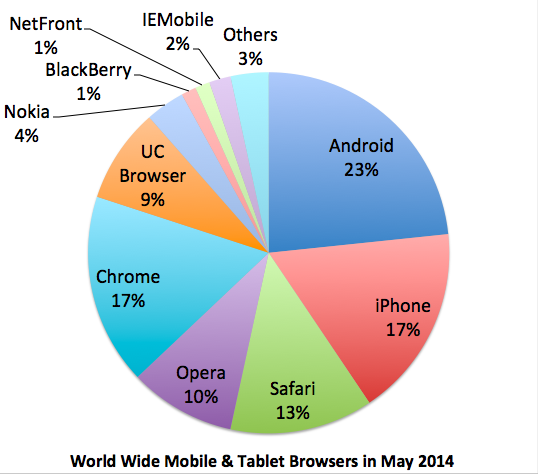
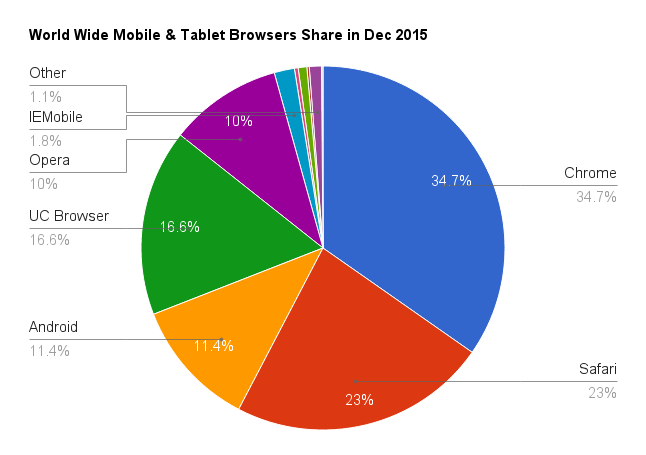
Revise content for Jan 2016 revisit presentation.

diff --git a/index.html b/index.html
@@ -103,8 +103,8 @@
 				<section>
 					<h2>Major Mobile Web Browsers</h2>
 					<div class="inline-block">
-						<img src="img/mobile-browsers-stats.png" height="474" width="538" alt="Mobile Browser Stats"><br>
-						<small>Source: <a href="http://gs.statcounter.com/#mobile+tablet-browser-ww-monthly-201305-201405">StatCounter Global Stats - Browser Market Share</a></small>
+						<img src="img/mobile-browsers-stats.png" height="455" width="646" alt="Mobile Browser Stats"><br>
+						<small>Source: <a href="http://gs.statcounter.com/#mobile+tablet-browser-ww-monthly-201412-201512">StatCounter Global Stats - Browser Market Share</a></small>
 					</div>
 					<aside class="inline-notes" style="bottom: -2em">
 						This presentation is not intended to deal with the complicated fragmentation of mobile browsers and rendering engines.<br>Generally, I'm focusing on iOS and Android browsers only and a little of IE Mobile.
@@ -344,7 +344,7 @@ input, textarea {
 
 				<section>
 					<h3>Device Orientation API Demo</h3>
-					<a href="http://girliemac.com/magic8ball/">http://girliemac.com/magic8ball/</a>
+					<a href="http://girliemac.com/magic8ball/">http://girliemac.com/magic8ball/</a><br>
 				</section>
 
 				<section>
@@ -357,8 +357,10 @@ input, textarea {
 					<ul>
 						<li>Avoid absolute units (i.e: px, pt)</li>
 						<li>Try to make layout fluid with %</li>
-						<li>Try to make components scalable with 'em'</li>
+						<li>Try to make components scalable with <code>em, rem</code></li>
+						<li>Make use of new size units: <code>vh, vw, vmin, vmax</code></li>
 						<li>Use a mobile-friendly grid framework</li>
+						<li>Layout with Flexbox</li>
 					</ul>
 				</section>
 
@@ -422,7 +424,7 @@ input, textarea {
 				</section>
 
 				<section>
-					<p>You Can't Avoid</p>
+					<p>You Must Embrace</p>
 					<h2>Touch Interface</h2>
 				</section>
 
@@ -525,15 +527,20 @@ document.getElementById('foo').addEventListener(POINTER_END, function() {
     FastClick.attach(document.body);
 
     document.getElementById('fastclick-btn').addEventListener('click', function(e) {
-        alert( 'Button ' + e.target.textContent + ' is clicked' );
+        clickNote.textContent += 'Click! ';
     });
 });
 					</code></pre>
-					<p><small>Link: <a href="https://github.com/ftlabs/fastclick">FastClick library</a></small></p>
+					<p><small>
+						Link: <a href="https://github.com/ftlabs/fastclick">FastClick library</a><br>
+						Update: <a href="http://developer.telerik.com/featured/300-ms-click-delay-ios-8/">New workarounds for 300ms delay on major mobile browsers</a>
+					</small></p>
+					<p><small id="click-notification"></small></p>
 					<script>
+						var clickNote = document.getElementById('click-notification');
 						forEach.call($('#delayed-click .btn,#fastclick .btn'), function(btn) {
 							btn.addEventListener('click', function(e) {
-								alert(e.target.textContent + ' is clicked');
+								clickNote.textContent += 'Click! ';
 							});
 						});
 					</script>
@@ -568,7 +575,9 @@ document.getElementById('foo').addEventListener(POINTER_END, function() {
 					</code></pre>
 				</section>
 				<section>
-					<h3>iOS scroll Events Not Dispatched on Momentum</h3>
+					<h3><s style="font-size:0.7em">iOS scroll Events Not Dispatched on Momentum</s><br>
+						It finally works on iOS8!
+					</h3>
 					<div class="demo left-align">
 						<div id="scroll-box" class="scroll-box touch no-swipe" style="margin-left: 15%">
 							<p>Pellentesque habitant morbi tristique senectus et netus et malesuada fames ac turpis egestas. Vestibulum tortor quam, feugiat vitae, ultricies eget, tempor sit amet, ante. Donec eu libero sit amet quam egestas semper. Aenean ultricies mi vitae est. Mauris placerat eleifend leo.</p>
@@ -640,9 +649,13 @@ scrollBox.addEventListener('scroll', function() {
 					<h3>Design for Touch Friendly Interface</h3>
 					<ul>
 						<li>Minimal touch area is 40px</li>
+						<li>Mind that there is no hover state on mobile</li>
 						<li>Mind the way users holding the screen</li>
-						<li>Read <a href="https://shop.smashingmagazine.com/the-mobile-book-deluxe-bundle.html">The Mobile Book</a></li>
+						<li>Avoid hidden gestures without visual cues or fallback actions</li>
+						<li>Always assume that mobile users have limited data</li>
 						<li>Maximize interface for content</li>
+						<li>Read <a href="https://shop.smashingmagazine.com/the-mobile-book-deluxe-bundle.html">The Mobile Book</a></li>
+						<li>Read Don't Make Me Think - 3rd Edition</li>
 					</ul>
 				</section>
 
@@ -758,10 +771,19 @@ scrollBox.addEventListener('scroll', function() {
 				<section>
 					<h4>About</h4>
 					<p><small>
-						This presentation was first presented in June 2014 by <a href="http://int3ractive.com">Thanh Tran</a> for Nau Studio team.<br><br>
-						The slides is powered by <a href="https://github.com/hakimel/reveal.js/">RevealJS presentation framework</a> with a modified Beige theme.<br>
-						Source code of the slides is available on <a href="https://github.com/trongthanh/mobile-web-app-howto">github</a>.<br><br>
-						&copy; 2014 <a href="http://naustud.io">Nau Studio</a>. All rights reserved.
+						This presentation was first presented in June 2014 by <a href="http://int3ractive.com">Thanh Tran</a> for Nau Studio team.
+						<br>
+						Revised first time on January 2016
+						<br><br>
+					</small></p>
+					<p><small>
+						The slides is powered by <a href="https://github.com/hakimel/reveal.js/">RevealJS presentation framework</a> with a modified Beige theme.
+						<br>
+						Source code of the slides is available on <a href="https://github.com/trongthanh/mobile-web-app-howto">github</a>.
+						<br><br>
+					</small></p>
+					<p><small>
+						&copy; 2016 <a href="http://naustud.io">Nau Studio</a>. All rights reserved.
 					</small></p>
 				</section>
 
